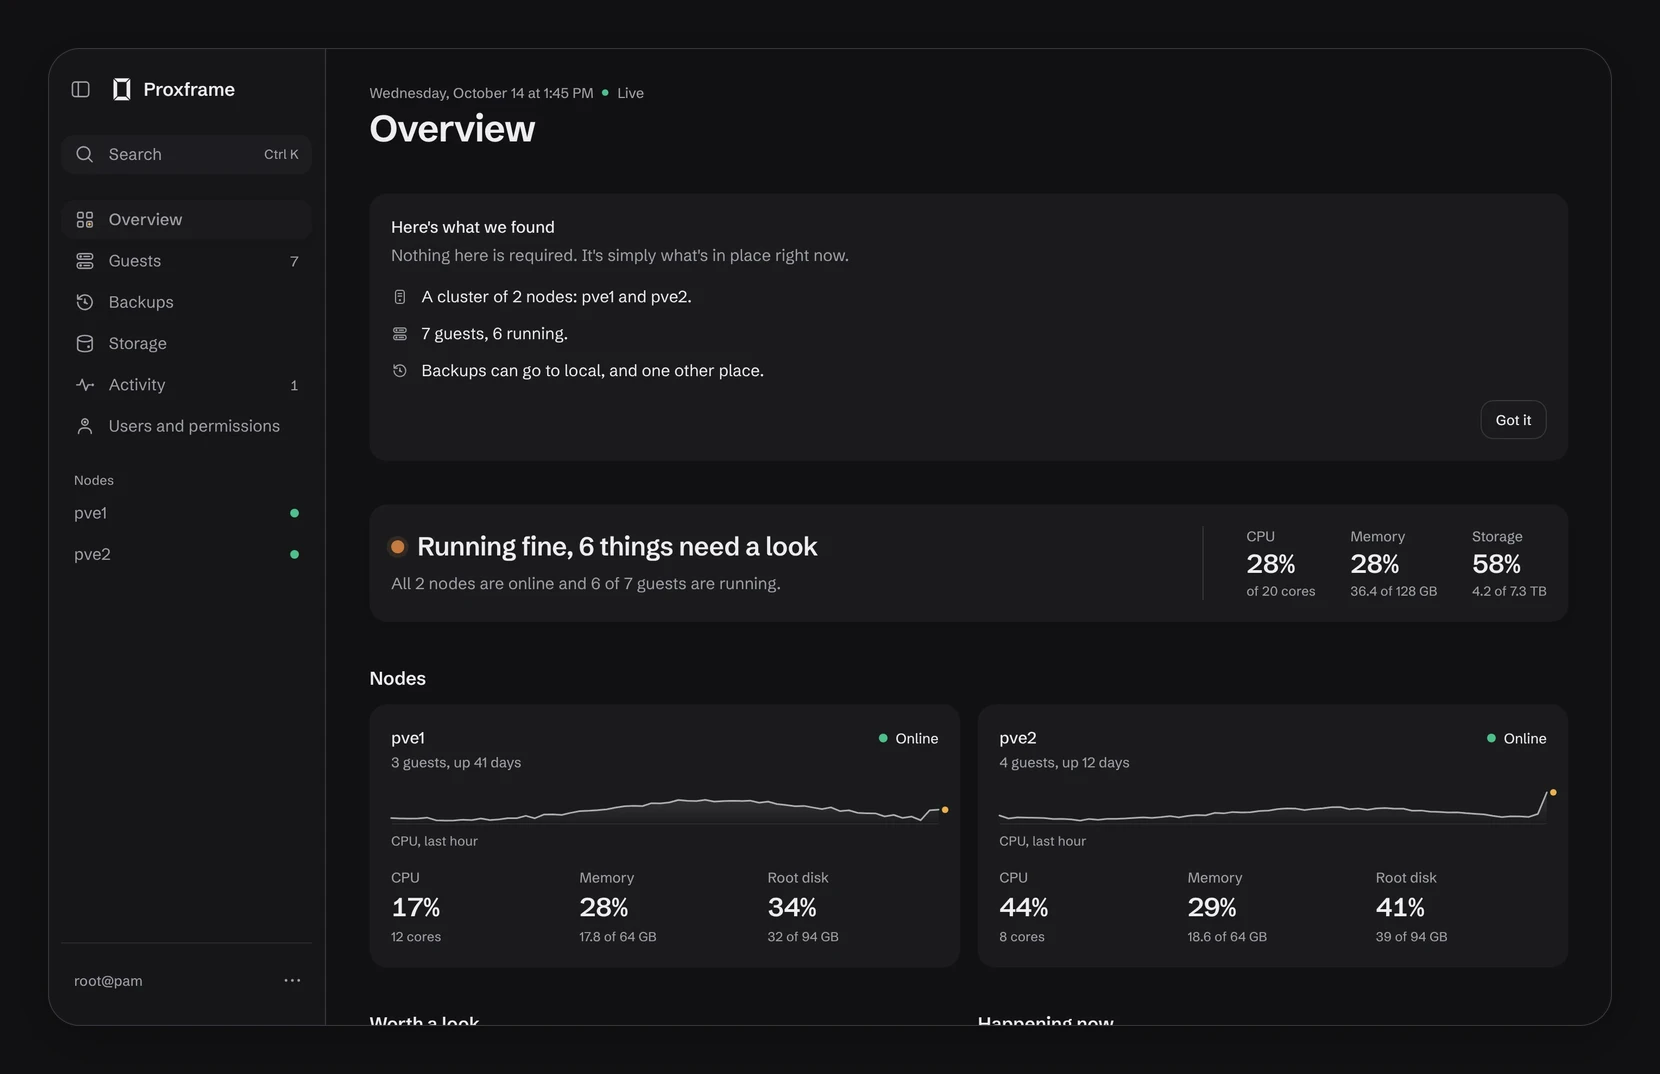
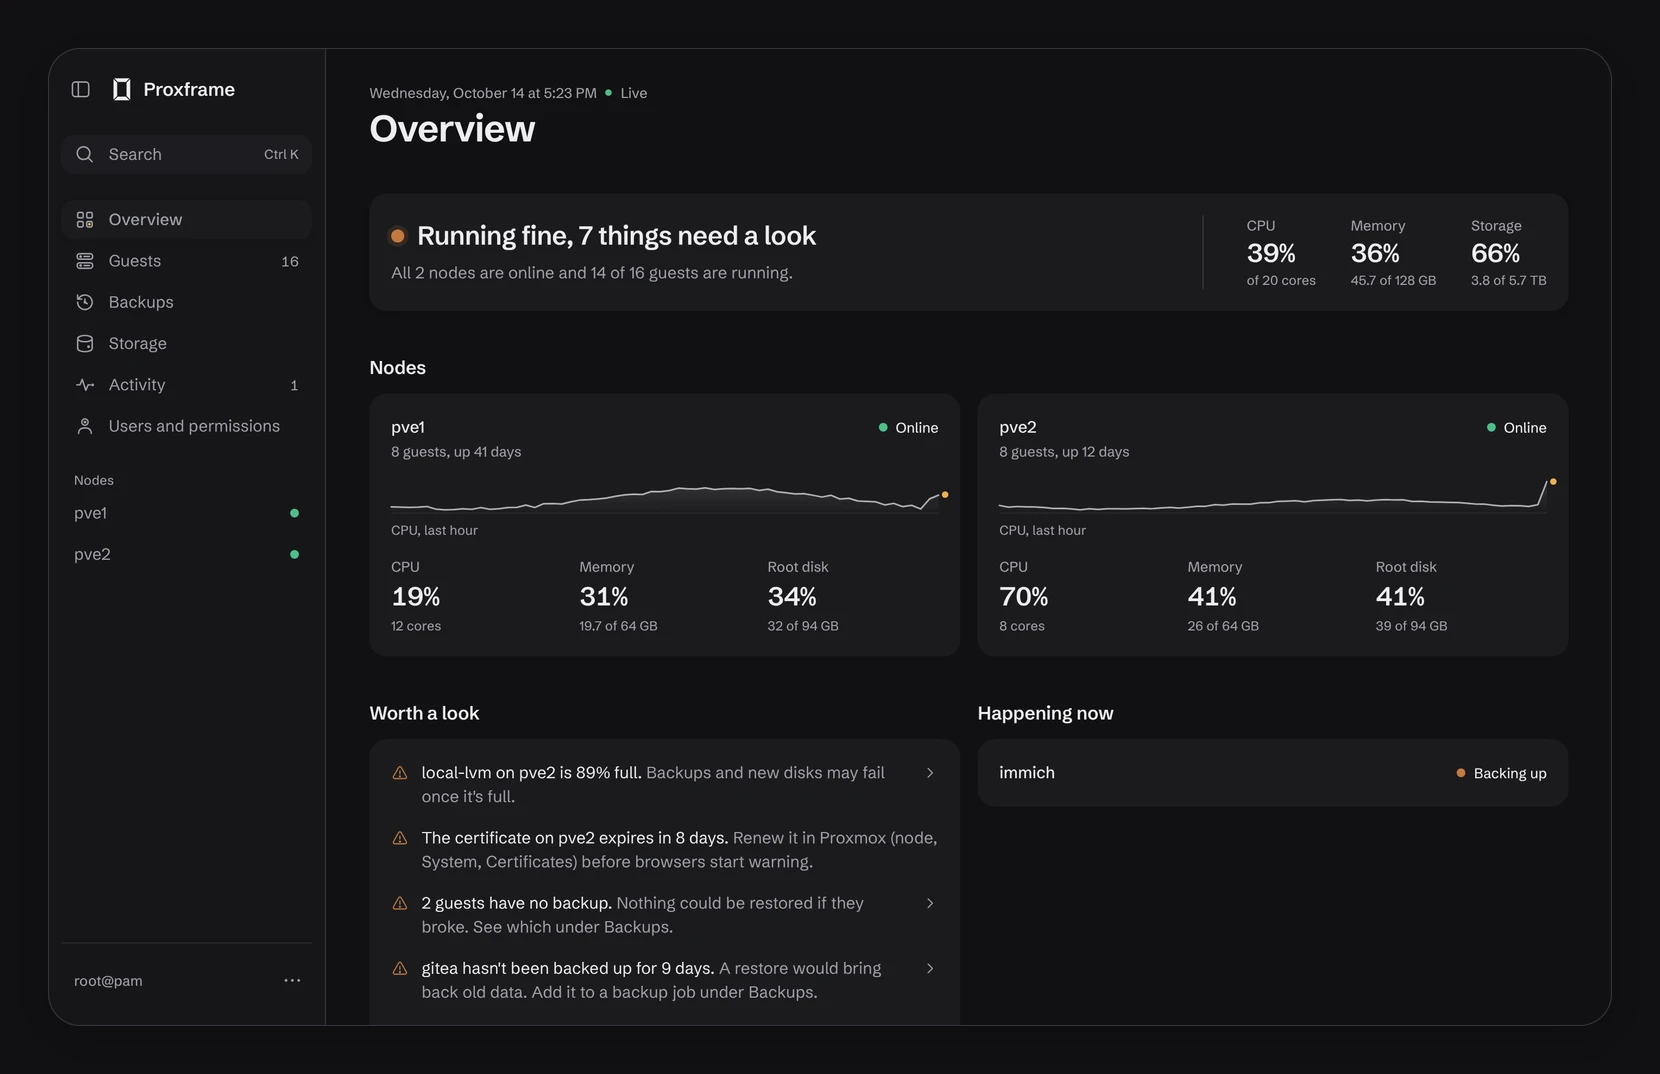
docs: README image from the showcase cluster
Claude-Session: https://claude.ai/code/session_014DwkH28zvMivVwHJtjdtSE

diff --git a/README.md b/README.md
@@ -13,7 +13,7 @@
 </p>
 <picture>
   <source media="(prefers-color-scheme: dark)" srcset="assets/readme/overview-dark.webp">
-  <img src="assets/readme/overview-light.webp" alt="The Overview page: a two-node cluster with seven guests, six of them running, and a list of six things worth a look." width="100%">
+  <img src="assets/readme/overview-light.webp" alt="The Overview page: a two-node cluster with sixteen guests, fourteen of them running, and a list of things worth a look." width="100%">
 </picture>
 
 Proxframe runs as a small service in a container on one of your nodes and talks to the normal Proxmox API. You sign in with your own Proxmox account, and the stock interface keeps working beside it.
